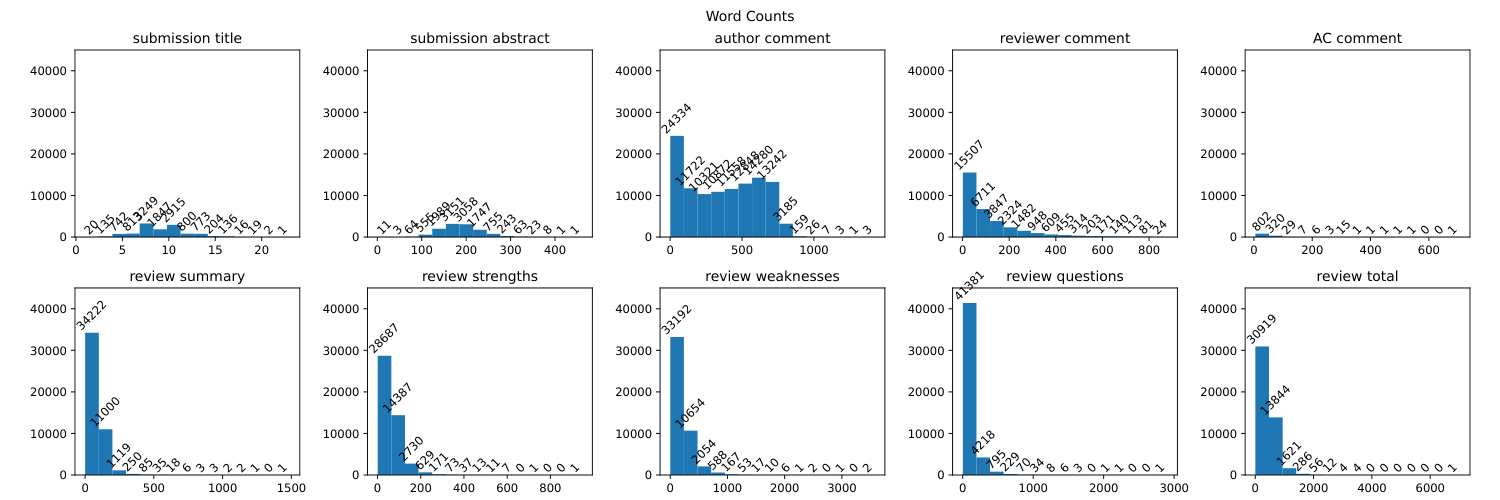
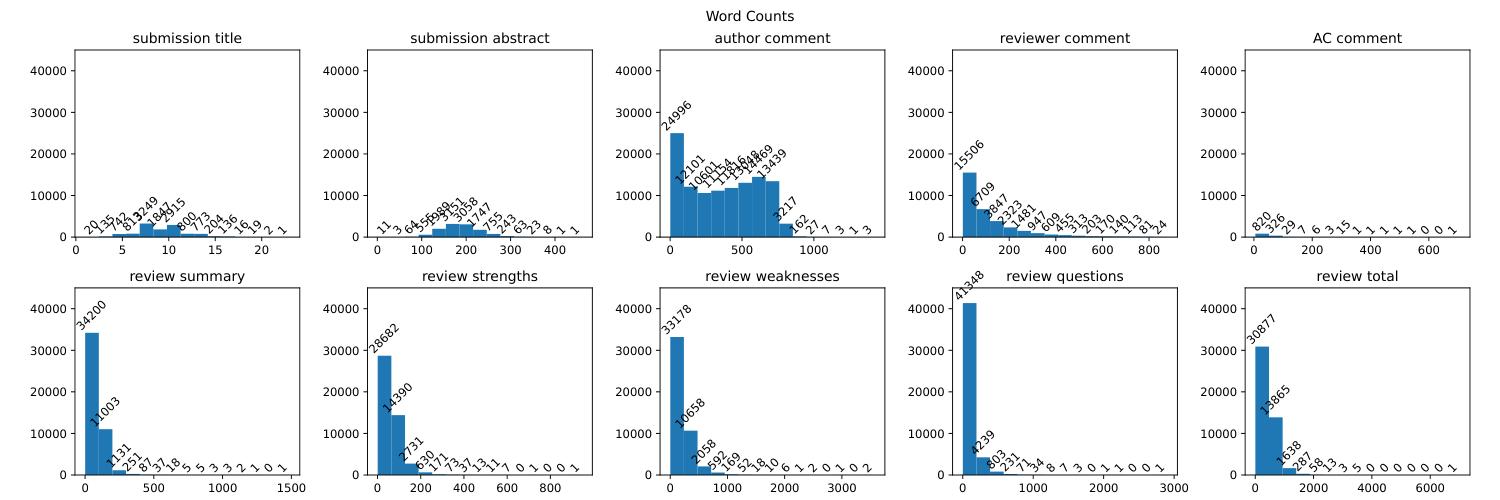
update and port to website

diff --git a/README.md b/README.md
@@ -1,5 +1,7 @@
-ICLR 2025: Volumetric Analaysis of Review Process
-=================================================
+Volumetric analysis of the ICLR 2025 review process
+===================================================
+
+*Cross-posted from [my personal website](https://far.in.net/iclr2025-volume).*
 
 I was a reviewer for ICLR 2025. I spent a lot of time writing my reviews and
 engaging with the review process. Much more than (most of) the reviews on my
@@ -17,10 +19,28 @@ and wrote a script to download all abstracts and all comments via the
 then did battle with matplotlib and timezones for a couple of hours,
 *et voilà.*
 
-Results: Timeline of posts and comments
----------------------------------------
+Anatomy of an OpenReview forum
+------------------------------
 
-![Timeline of ICLR 2025 posts and comments.](timeline.png)
+The OpenReview API lets you easily download abstracts. If you pass the right
+configuration options you can also get all top-level comments or all comments
+and sub-comments. But you need to know the structure of the response to get
+to the data you want.
+
+Some of the response structure is documented
+  [in the API reference](https://docs.openreview.net/reference/api-v2/entities/note/fields). 
+In practice, there are more fields; I dissected an example and documented the
+results in [iclr2025api.md](iclr2025api.md).
+This map was useful for extracting the following statistics.
+
+
+Timeline of posts and comments
+------------------------------
+
+<img
+  src="timeline.png"
+  alt="Timeline of ICLR 2025 posts and comments."
+/>
 
 One aspect of the 'volume' of discussion is the number of posts by authors
 and reviewers each day. I was interested in when authors and reviewers post
@@ -32,21 +52,19 @@ The above plots the number of each type of event per day (logarithmic scale
 for the counts, the spike at the review deadline is really sharp on a linear
 scale).
 
-NOTE: Data from 2024-12-04 is incomplete.
-
 Observations:
 
 * Most reviews happen shortly before the review deadline. A substantial
   number of reviews occur in the emergency period after that deadline. A
   smaller number (but still dozens) take even longer, with one review posted
-  on the final day!
+  on the final day of the discussion period!
 * I was expecting an even sharper spike in submissions around the original
   submission deadline. However, it's not as sharp there. Probably this is
   because the real push is to get the full paper in by the full paper
   submission deadline. This script doesn't see when posts were revised to
   include a PDF.
 * The author--reviewer discussion period is characterised by several peaks in
-  author arctivity: First, immediately after reviews are released there is a
+  author activity: First, immediately after reviews are released there is a
   spate of withdrawals.
   Then, authors begin replying, with the most active day about 10 days into
   the discussion period. Reviewers become gradually more responsive, and
@@ -60,9 +78,8 @@ Observations:
 
 This puts my experience as a reviewer and author into perspective.
 
-* As a reviewer, I submitted three reviews, approximately one the day before
-  the review deadline, one the day of the deadline, and one the day after.
-  It seems this is pretty typical.
+* As a reviewer, I submitted three reviews, respectively the day before, of,
+  and after the deadline. It seems this is pretty typical.
 * As an author, for one paper we managed to submit rebuttals on the 17th of
   November. This was really early, and maybe we shouldn't have pushed so
   hard. For my other paper we ran some additional experiments and submitted
@@ -78,25 +95,30 @@ This puts my experience as a reviewer and author into perspective.
 
 Interesting!
 
-Results: Wordcounts for different fields
-----------------------------------------
 
-![Histogram of word counts for ICLR 2025 posts and comments.](wordcounts.png)
+Wordcounts for different fields
+-------------------------------
 
-Another apsect of the 'volume' of discussion is the number of words in each
-comment. Actually, what I was really interested in was the number of words *in
-each review,* because I had a feeling based on the length of my review and
-based on reading 
+<img
+  src="wordcounts.png"
+  alt="Histogram of word counts for ICLR 2025 posts and comments."
+/>
+
+Another aspect of the 'volume' of discussion is the number of words in each
+comment.
+Actually, what I was really interested in was the number of words *in each
+review,* because I had a feeling that I may have written the longest review
+at ICLR this year (based on the length of my reviews and based on reading 
   [Bastian Rieck's post](https://bastian.rieck.me/blog/2019/iclr_analysis/)
-that I probably wrote the longest review at ICLR this year.
-So, I scraped the contents of the reviews and comments, counted words (just
-via `len(markdown_source.split())`, nothing fancy) and histogrammed the
+about ICLR 2019 review lengths).
+So, I scraped the contents of the reviews and comments, counted words
+(nothing fancy, just `len(markdown_source.split())`) and histogrammed the
 results.
 
 Observations:
 
 * I'm not exactly sure what to make of the stats for paper title and abstract
-  lenghts. But it seems interesting that the average paper has around 9--10
+  lengths. But it seems interesting that the average paper has around 9--10
   words in the title and an abstract under 200 words in length.
 * The author comment length distribution has a somewhat weird cutoff at
   around 750 words. I think this is actually *not* surprising---OpenReview
@@ -110,11 +132,11 @@ Observations:
 * Reviewer comments are systematically shorter than author comments. Well,
   that perfectly matches my experience. Though there does appear to be a
   pretty long tail (again barely exceeding around 750).
-* As for reviews, the first four plots show the four components of the
-  review. It matches my experience as a reviewer and as an author to see that
-  the weaknesses section appears to be the typically longest of the four
-  sections.
-* Then there is `review total` which is the aggregate of the individual
+* As for reviews, the first four plots in the second row show the four
+  components of the review. It matches my experience as a reviewer and as an
+  author to see that the weaknesses section appears to be the typically
+  longest of the four sections.
+* Finally, there is `review total` which is the aggregate of the individual
   components, the vast majority of reviews are less than 1000 words, many
   less than even 500. There are a very small number of longer reviews, going
   up to... around 7000 words
@@ -124,19 +146,6 @@ This puts my experience as a reviewer into perspective... I wrote pretty long
 reviews. However, in order to preserve anonymity, I will neither confirm nor
 deny that I am responsible for that 7000 word review.
 
-Anatomy of an OpenReview Forum Object
--------------------------------------
-
-The OpenReview API lets you easily download abstracts. If you pass the right
-configuration options you can also get all top-level comments or all comments
-and sub-comments. But you need to know the structure of the response to get
-to the data you want.
-
-Some of the response structure is documented
-  [in the API reference](https://docs.openreview.net/reference/api-v2/entities/note/fields). 
-In practice, there are more fields; I dissected an example and documented the
-results in [iclr2025api.md](iclr2025api.md).
-This map was useful for extracting the above statistics.
 
 Future work
 -----------
